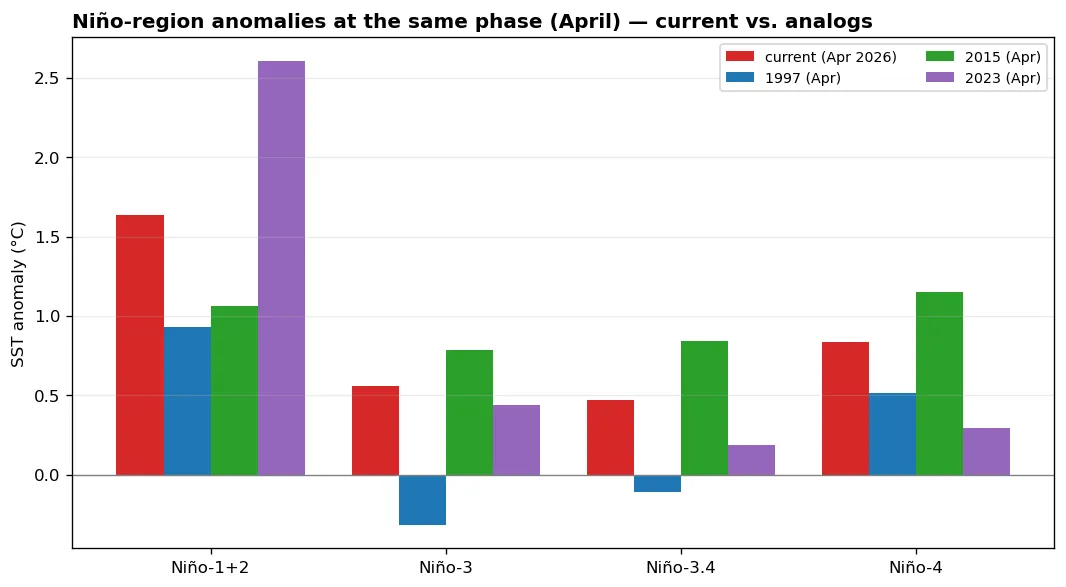
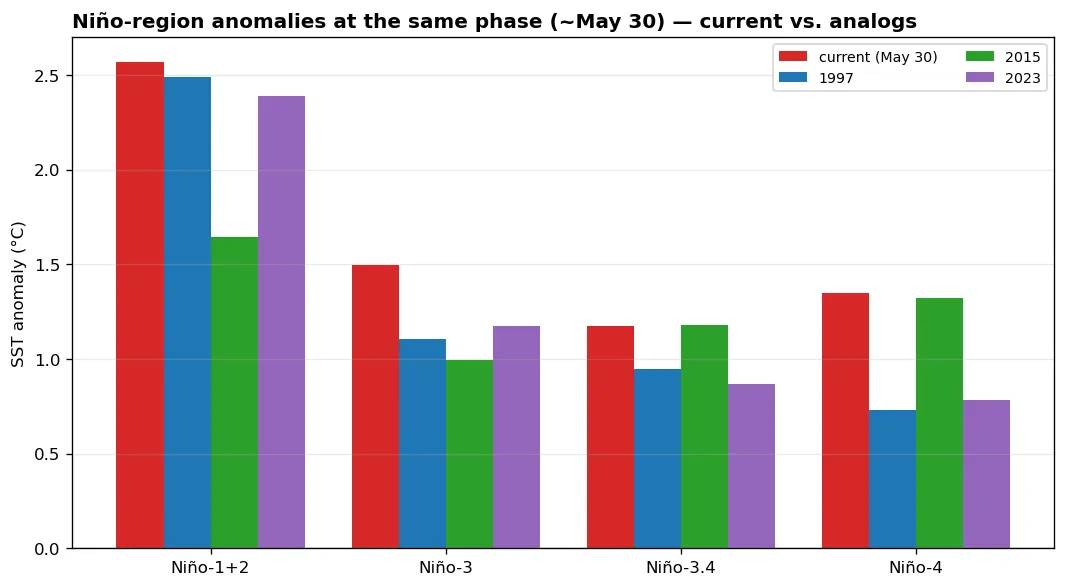
El Niño analogs → weekly (7-day) from OISST daily-anom; drop dead google AIFS source
- sst_events.py: rebuild Niño-3.4 overlay / flavor bars / matching-phase maps
  at 7-day resolution from the OISST daily-anomaly per-year files (reliable,
  no OPeNDAP) instead of the 2.2GB monthly record
- sst.html(.template): event-card captions/footers monthly → weekly (7-day mean)
- sst-events.yml: comments updated for the daily-anom event-year downloads
- download_aifs.py: google 400s for aifs-ens (never served — only added a failed
  round-trip), so default sources are now aws,azure,ecmwf; add AIFS_STEP_HOURS
  env lever (default 6h) to halve the local download on slow links

diff --git a/sst.html b/sst.html
@@ -296,30 +296,30 @@
     <div class="chart-card">
       <div class="chart-card-header">
         <h2>This Event vs. 1997, 2015 &amp; 2023</h2>
-        <p>Niño-3.4 monthly anomaly through each event's development year and the following year &mdash; the current event (bold red) overlaid on the three most recent strong/super El Niños.</p>
+        <p>Niño-3.4 anomaly (7-day running mean) through each event's development year and the following year &mdash; the current event (bold red) overlaid on the three most recent strong/super El Niños.</p>
       </div>
       <div class="img-wrap"><img src="assets/sst/events_nino34.webp?v=202606011324" alt="Niño-3.4 evolution: current event vs 1997/2015/2023" loading="lazy"></div>
-      <div class="chart-card-footer"><span class="chart-sources">OISST v2.1 monthly &middot; anomaly vs 1991&ndash;2020</span></div>
+      <div class="chart-card-footer"><span class="chart-sources">OISST v2.1 daily &middot; 7-day mean &middot; anomaly vs 1991&ndash;2020</span></div>
     </div>
 
     <!-- EVENT COMPARISON: multi-region flavor bars -->
     <div class="chart-card">
       <div class="chart-card-header">
         <h2>El Niño Flavor &mdash; Niño Regions vs. Analogs</h2>
-        <p>Niño-1+2 / 3 / 3.4 / 4 anomalies at the same calendar month as the latest data, for the current event and the three analogs. Strong eastern (1+2, 3) relative to central (4) marks an East-Pacific-flavored event.</p>
+        <p>Niño-1+2 / 3 / 3.4 / 4 anomalies (7-day mean) at the same calendar day as the latest data, for the current event and the three analogs. Strong eastern (1+2, 3) relative to central (4) marks an East-Pacific-flavored event.</p>
       </div>
       <div class="img-wrap"><img src="assets/sst/events_bars.webp?v=202606011324" alt="Niño-region anomalies, current event vs analogs" loading="lazy"></div>
-      <div class="chart-card-footer"><span class="chart-sources">OISST v2.1 monthly &middot; same-phase comparison</span></div>
+      <div class="chart-card-footer"><span class="chart-sources">OISST v2.1 daily &middot; 7-day mean &middot; same-phase comparison</span></div>
     </div>
 
     <!-- EVENT COMPARISON: matching-phase maps -->
     <div class="chart-card">
       <div class="chart-card-header">
         <h2>Matching-Phase SST Anomaly Maps</h2>
-        <p>Global SST anomaly for the latest available month vs. the same calendar month in 1997, 2015 and 2023. Note how much warmer the global baseline is now than in 1997 &mdash; the same ENSO state now sits on a hotter ocean.</p>
+        <p>Global SST anomaly for the latest available week vs. the same calendar week in 1997, 2015 and 2023. Note how much warmer the global baseline is now than in 1997 &mdash; the same ENSO state now sits on a hotter ocean.</p>
       </div>
       <div class="img-wrap"><img src="assets/sst/events_maps.webp?v=202606011324" alt="Matching-phase global SST anomaly maps" loading="lazy"></div>
-      <div class="chart-card-footer"><span class="chart-sources">OISST v2.1 monthly &middot; anomaly vs 1991&ndash;2020</span></div>
+      <div class="chart-card-footer"><span class="chart-sources">OISST v2.1 daily &middot; 7-day mean &middot; anomaly vs 1991&ndash;2020</span></div>
     </div>
 
   </div>

diff --git a/scripts/sst/sst_events.py b/scripts/sst/sst_events.py
@@ -1,19 +1,21 @@
 #!/usr/bin/env python3
 """
-El Niño event-comparison products for the monitor: track the current ENSO
-evolution against the 1997-98, 2015-16, and 2023-24 events.
+El Niño event-comparison products: track the current ENSO evolution against the
+1997-98, 2015-16, and 2023-24 events at WEEKLY resolution.
 
-Data: OISST monthly mean via PSL OPeNDAP (subset to the Niño boxes / specific
-months — no bulk download), anomalies vs the 1991-2020 monthly climatology.
+Data: OISST daily anomaly files (already anomalies vs 1991-2020) for just the
+event years — small, reliable (no OPeNDAP), 7-day-smoothed.
 
 Products (assets/sst/):
-  events_nino34.webp   Niño-3.4 monthly evolution overlay (current vs analogs)
-  events_bars.webp     Niño-1+2/3/3.4/4 latest-month bars (current vs analogs)
+  events_nino34.webp   Niño-3.4 weekly evolution overlay (current vs analogs)
+  events_bars.webp     Niño-1+2/3/3.4/4 same-phase flavor bars
   events_maps.webp     matching-phase global anomaly maps (current vs analogs)
 """
 from __future__ import annotations
 
 import os
+import urllib.request
+from datetime import datetime, timezone
 from pathlib import Path
 
 import numpy as np
@@ -28,23 +30,10 @@ SITE_ROOT = Path(os.environ["SST_SITE_ROOT"]).resolve() if os.environ.get("SST_S
 ASSETS = SITE_ROOT / "assets" / "sst"
 DATA = HERE / "data"
 PSL = "https://downloads.psl.noaa.gov/Datasets/noaa.oisst.v2.highres"
-MON_LOCAL = DATA / "sst.mon.mean.nc"
-LTM_LOCAL = DATA / "sst.mon.ltm.1991-2020.nc"
-
-
-def _ensure(local: Path, name: str) -> Path:
-    """Download the monthly file once if absent (OPeNDAP proved unreliable)."""
-    if local.exists() and local.stat().st_size > 0:
-        return local
-    import urllib.request
-    DATA.mkdir(parents=True, exist_ok=True)
-    print(f"  downloading {name} …", flush=True)
-    urllib.request.urlretrieve(f"{PSL}/{name}", local)
-    return local
 
 ANALOGS = [1997, 2015, 2023]
 ANALOG_COLORS = {1997: "#1f77b4", 2015: "#2ca02c", 2023: "#9467bd"}
-# Niño regions: lon in degE, lat S->N
+SMOOTH = 7                                       # 7-day running mean (weekly)
 NINO = {
     "1+2": dict(lat=(-10, 0), lon=(270, 280)),
     "3":   dict(lat=(-5, 5),  lon=(210, 270)),
@@ -53,60 +42,71 @@ NINO = {
 }
 
 
-def _open():
-    ds = xr.open_dataset(_ensure(MON_LOCAL, "sst.mon.mean.nc"))
+def _ensure_daily(year: int) -> Path:
+    p = DATA / f"sst.day.anom.{year}.nc"
+    if not (p.exists() and p.stat().st_size > 0):
+        DATA.mkdir(parents=True, exist_ok=True)
+        print(f"  downloading sst.day.anom.{year}.nc …", flush=True)
+        urllib.request.urlretrieve(f"{PSL}/sst.day.anom.{year}.nc", p)
+    return p
+
+
+def current_year() -> int:
+    y = datetime.now(timezone.utc).year
+    try:
+        _ensure_daily(y)
+        return y
+    except Exception:
+        return y - 1
+
+
+def _open(years):
+    ds = xr.open_mfdataset([_ensure_daily(y) for y in sorted(set(years))],
+                           combine="by_coords")
     la = "lat" if "lat" in ds.coords else "latitude"
     lo = "lon" if "lon" in ds.coords else "longitude"
-    return ds, la, lo
+    var = "anom" if "anom" in ds.data_vars else list(ds.data_vars)[0]
+    return ds, var, la, lo
 
 
-def region_anom(ds, la, lo, region) -> pd.Series:
-    """Monthly anomaly (°C, vs 1991-2020) for a Niño box, full record."""
+def region_daily(ds, var, la, lo, region) -> pd.Series:
     b = NINO[region]
     latsel = (slice(b["lat"][1], b["lat"][0]) if float(ds[la][0]) > float(ds[la][-1])
               else slice(b["lat"][0], b["lat"][1]))
-    box = ds["sst"].sel({la: latsel, lo: slice(*b["lon"])}).mean((la, lo)).compute()
+    box = ds[var].sel({la: latsel, lo: slice(*b["lon"])}).mean((la, lo)).compute()
     s = pd.Series(box.values, index=pd.to_datetime(box.time.values)).dropna()
-    s = s[s.abs() > 1.0]                       # drop unfilled (zero) months
-    clim = s["1991":"2020"].groupby(lambda d: d.month).mean()
-    return s - s.index.month.map(lambda m: clim[m])
+    return s.rolling(SMOOTH, center=True, min_periods=3).mean()      # weekly-smoothed
 
 
-def current_year0(s: pd.Series) -> int:
-    """Developing-year anchor for the ongoing event = year of the latest month
-    (events ramp up through the calendar year toward a DJF peak)."""
-    return int(s.index[-1].year)
-
-
-def event_window(anom: pd.Series, year0: int) -> pd.Series:
-    """24 monthly values indexed 1..24 = Jan(year0) .. Dec(year0+1)."""
-    idx = pd.date_range(f"{year0}-01-01", f"{year0+1}-12-01", freq="MS")
-    vals = anom.reindex(idx)
-    return pd.Series(vals.values, index=np.arange(1, 25))
-
-
+# ── 1. Niño-3.4 weekly evolution overlay ──────────────────────────────────────
 def overlay_nino34(out: Path):
-    ds, la, lo = _open()
-    a = region_anom(ds, la, lo, "3.4")
-    y0 = current_year0(a)
+    y0 = current_year()
+    years = [y for yr in ANALOGS for y in (yr, yr + 1)] + [y0]
+    ds, var, la, lo = _open(years)
+    s = region_daily(ds, var, la, lo, "3.4")
+
     fig, ax = plt.subplots(figsize=(9, 5.2))
+    def devdays(idx, yr):
+        return (idx - pd.Timestamp(yr, 1, 1)).days
     for yr in ANALOGS:
-        w = event_window(a, yr)
-        ax.plot(w.index, w.values, color=ANALOG_COLORS[yr], lw=1.8,
-                label=f"{yr}–{str(yr+1)[2:]}")
-    cur = event_window(a, y0).dropna()
-    ax.plot(cur.index, cur.values, color="#d62728", lw=3.0, marker="o", ms=4,
+        seg = s[f"{yr}":f"{yr+1}"]
+        ax.plot(devdays(seg.index, yr), seg.values, color=ANALOG_COLORS[yr],
+                lw=1.6, label=f"{yr}–{str(yr+1)[2:]}")
+    cur = s[f"{y0}":]
+    ax.plot(devdays(cur.index, y0), cur.values, color="#d62728", lw=3.0,
             label=f"{y0} (current)", zorder=5)
     ax.axhline(0, color="0.6", lw=0.8)
     for g in (0.5, -0.5):
         ax.axhline(g, color="0.7", lw=0.7, ls="--")
-    months = ["Jan", "Apr", "Jul", "Oct"]
-    ax.set_xticks([1, 4, 7, 10, 13, 16, 19, 22])
-    ax.set_xticklabels([f"{m}\nYr0" if i < 4 else f"{m}\nYr1"
-                        for i, m in enumerate(months * 2)], fontsize=8)
-    ax.set_xlim(1, 24)
+    # month ticks across Yr0 and Yr1
+    ticks = [pd.Timestamp(2001, m, 1).dayofyear - 1 for m in (1, 4, 7, 10)]
+    ticks = ticks + [t + 365 for t in ticks]
+    ax.set_xticks(ticks)
+    ax.set_xticklabels([f"{m}\nYr0" for m in ("Jan", "Apr", "Jul", "Oct")] +
+                       [f"{m}\nYr1" for m in ("Jan", "Apr", "Jul", "Oct")], fontsize=8)
+    ax.set_xlim(0, 730)
     ax.set_ylabel("Niño-3.4 SST anomaly (°C)")
-    ax.set_title("Niño-3.4 evolution: current event vs. 1997, 2015, 2023",
+    ax.set_title("Niño-3.4 evolution (7-day mean): current vs. 1997, 2015, 2023",
                  fontsize=12, fontweight="bold", loc="left")
     ax.legend(fontsize=9, loc="upper left", framealpha=0.9)
     ax.grid(True, alpha=0.25)
@@ -114,82 +114,77 @@ def overlay_nino34(out: Path):
     out.parent.mkdir(parents=True, exist_ok=True)
     fig.savefig(out, dpi=120, bbox_inches="tight")
     plt.close(fig)
-    print(f"wrote {out}  (current year0={y0}, latest {a.index[-1]:%Y-%m} {a.iloc[-1]:+.2f}°C)")
+    print(f"wrote {out} (latest {s.dropna().index[-1]:%Y-%m-%d} {s.dropna().iloc[-1]:+.2f}°C)")
 
 
+# ── 2. Multi-region flavor bars ───────────────────────────────────────────────
 def bars_multiregion(out: Path):
-    """Niño-1+2/3/3.4/4 anomalies at the current phase: current vs analogs at
-    the same calendar month (shows EP-vs-CP flavor)."""
-    ds, la, lo = _open()
-    regions = ["1+2", "3", "3.4", "4"]
-    series = {r: region_anom(ds, la, lo, r) for r in regions}
-    latest = series["3.4"].index[-1]
-    y0, m = latest.year, latest.month
-    events = [(y0, "current", "#d62728")] + [(y, str(y), ANALOG_COLORS[y]) for y in ANALOGS]
+    y0 = current_year()
+    ds, var, la, lo = _open([y0] + ANALOGS)
+    regions = list(NINO)
+    series = {r: region_daily(ds, var, la, lo, r) for r in regions}
+    latest = series["3.4"].dropna().index[-1]
+    doy = latest.dayofyear
 
+    def at_phase(s, yr):
+        target = pd.Timestamp(yr, 1, 1) + pd.Timedelta(days=int(doy) - 1)
+        i = s.index.get_indexer([target], method="nearest")[0]
+        return float(s.iloc[i])
+    events = [(y0, f"current ({latest:%b %d})", "#d62728")] + \
+             [(y, f"{y}", ANALOG_COLORS[y]) for y in ANALOGS]
     fig, ax = plt.subplots(figsize=(9, 5.0))
-    x = np.arange(len(regions))
-    w = 0.2
+    x = np.arange(len(regions)); w = 0.2
     for k, (yr, lab, col) in enumerate(events):
-        vals = [float(series[r].get(pd.Timestamp(yr, m, 1), np.nan)) for r in regions]
-        ax.bar(x + (k - 1.5) * w, vals, w, color=col,
-               label=(f"{lab} ({latest:%b %Y})" if lab == "current" else f"{yr} ({pd.Timestamp(yr,m,1):%b})"))
+        ax.bar(x + (k - 1.5) * w, [at_phase(series[r], yr) for r in regions], w,
+               color=col, label=lab)
     ax.axhline(0, color="0.5", lw=0.8)
     ax.set_xticks(x); ax.set_xticklabels([f"Niño-{r}" for r in regions])
     ax.set_ylabel("SST anomaly (°C)")
-    ax.set_title(f"Niño-region anomalies at the same phase ({latest:%B}) — current vs. analogs",
+    ax.set_title(f"Niño-region anomalies at the same phase (~{latest:%b %d}) — current vs. analogs",
                  fontsize=12, fontweight="bold", loc="left")
-    ax.legend(fontsize=8.5, ncol=2)
-    ax.grid(True, axis="y", alpha=0.25)
+    ax.legend(fontsize=8.5, ncol=2); ax.grid(True, axis="y", alpha=0.25)
     fig.tight_layout()
-    out.parent.mkdir(parents=True, exist_ok=True)
-    fig.savefig(out, dpi=120, bbox_inches="tight")
-    plt.close(fig)
-    print(f"wrote {out}  (phase {latest:%Y-%m})")
+    fig.savefig(out, dpi=120, bbox_inches="tight"); plt.close(fig)
+    print(f"wrote {out} (phase ~{latest:%b %d})")
 
 
+# ── 3. Matching-phase global anomaly maps ─────────────────────────────────────
 def matching_phase_maps(out: Path):
-    """Global SST-anomaly maps for the current month vs the same calendar month
-    in each analog year (2x2)."""
     import cartopy.crs as ccrs
     import cartopy.feature as cfeature
-    ds, la, lo = _open()
-    ltm = xr.open_dataset(_ensure(LTM_LOCAL, "sst.mon.ltm.1991-2020.nc"))
-    lav = "lat" if "lat" in ltm.coords else "latitude"
-    latest = pd.to_datetime(ds["sst"].dropna("time", how="all").time.values[-1])
-    # use the latest fully-valid month
-    m = latest.month
-    clim = ltm["sst"].isel(time=m - 1)                       # April climatology map
-    years = [latest.year] + ANALOGS
-    labels = [f"{latest.year} (current)"] + [f"{y}" for y in ANALOGS]
+    y0 = current_year()
+    ds, var, la, lo = _open([y0] + ANALOGS)
+    latest = pd.to_datetime(ds[var].dropna("time", how="all").time.values[-1])
+    doy = latest.dayofyear
+    years = [y0] + ANALOGS
+    labels = [f"{y0} (current)"] + [str(y) for y in ANALOGS]
 
-    PC = ccrs.PlateCarree()
-    proj = ccrs.PlateCarree(central_longitude=180)
-    fig, axes = plt.subplots(2, 2, figsize=(12, 6.4),
-                             subplot_kw=dict(projection=proj))
-    fig.suptitle(f"Global SST anomaly — {latest:%B} of each event "
-                 f"(current vs 1997/2015/2023)", fontsize=13, fontweight="bold")
+    def week_map(yr):
+        end = pd.Timestamp(yr, 1, 1) + pd.Timedelta(days=int(doy) - 1)
+        sl = ds[var].sel(time=slice(end - pd.Timedelta(days=SMOOTH - 1), end)).mean("time")
+        return sl.compute()
+
+    PC = ccrs.PlateCarree(); proj = ccrs.PlateCarree(central_longitude=180)
+    fig, axes = plt.subplots(2, 2, figsize=(12, 6.4), subplot_kw=dict(projection=proj))
+    fig.suptitle(f"Global SST anomaly — week ending ~{latest:%b %d} of each event",
+                 fontsize=13, fontweight="bold")
     im = None
     for ax, yr, lab in zip(axes.ravel(), years, labels):
-        fld = ds["sst"].sel(time=f"{yr}-{m:02d}").squeeze() - clim.values
+        f = week_map(yr)
         ax.set_extent((-180, 180, -60, 60), crs=PC)
-        im = ax.pcolormesh(fld[lo].values, fld[la].values, fld.values,
-                           cmap="RdBu_r", vmin=-3, vmax=3, transform=PC,
-                           shading="auto", rasterized=True)
+        im = ax.pcolormesh(f[lo].values, f[la].values, f.values, cmap="RdBu_r",
+                           vmin=-3, vmax=3, transform=PC, shading="auto", rasterized=True)
         ax.add_feature(cfeature.LAND.with_scale("110m"), facecolor="#d9d6cf")
         ax.add_feature(cfeature.COASTLINE.with_scale("110m"), edgecolor="#555", linewidth=0.3)
         ax.set_title(lab, fontsize=10)
-    cax = fig.add_axes([0.92, 0.15, 0.014, 0.7])
-    fig.colorbar(im, cax=cax, extend="both").set_label("SST anomaly (°C)", fontsize=9)
+    fig.colorbar(im, cax=fig.add_axes([0.92, 0.15, 0.014, 0.7]),
+                 extend="both").set_label("SST anomaly (°C)", fontsize=9)
     fig.subplots_adjust(left=0.02, right=0.9, top=0.9, bottom=0.04, wspace=0.05, hspace=0.15)
-    out.parent.mkdir(parents=True, exist_ok=True)
-    fig.savefig(out, dpi=110, bbox_inches="tight")
-    plt.close(fig)
-    print(f"wrote {out}  (matching month {latest:%B})")
+    fig.savefig(out, dpi=110, bbox_inches="tight"); plt.close(fig)
+    print(f"wrote {out} (week ending ~{latest:%b %d})")
 
 
 if __name__ == "__main__":
     overlay_nino34(ASSETS / "events_nino34.webp")
     bars_multiregion(ASSETS / "events_bars.webp")
     matching_phase_maps(ASSETS / "events_maps.webp")
-

diff --git a/scripts/mjo/src/download_aifs.py b/scripts/mjo/src/download_aifs.py
@@ -23,15 +23,20 @@ from ecmwf.opendata import Client
 
 DATA_DIR = Path(__file__).parent.parent / "data" / "aifs"
 
-# 6-hourly steps to day 15
-STEPS = list(range(6, 361, 6))
+# Sub-daily steps to day 15. Default 6-hourly (4 samples/day → clean daily means
+# for the RMM). The download is ~1 MB/s-bandwidth-bound from the ECMWF mirrors,
+# so on a slow link set AIFS_STEP_HOURS=12 to halve the bytes (RMM is computed
+# from daily means via step//24 groupby, so coarser sampling is transparent).
+_STEP_HOURS = int(os.environ.get("AIFS_STEP_HOURS", "6"))
+STEPS = list(range(_STEP_HOURS, 361, _STEP_HOURS))
 
 # Prefer the cloud mirrors over the main ECMWF portal (which enforces a
 # connection limit / HTTP 429 that throttles the 4 GB ensemble download).
-# Google Cloud is consistently the fastest in practice, then AWS/Azure, with
-# the portal last. Override with the AIFS_SOURCES env var.
+# NOTE: the "google" source 400s for aifs-ens pressure-level data (it doesn't
+# host this product), so it's excluded — AWS/Azure first, portal last.
+# Override with the AIFS_SOURCES env var.
 SOURCES = [s.strip() for s in
-           os.environ.get("AIFS_SOURCES", "google,aws,azure,ecmwf").split(",") if s.strip()]
+           os.environ.get("AIFS_SOURCES", "aws,azure,ecmwf").split(",") if s.strip()]
 
 
 def _retrieve(req: dict, target: str) -> str:
